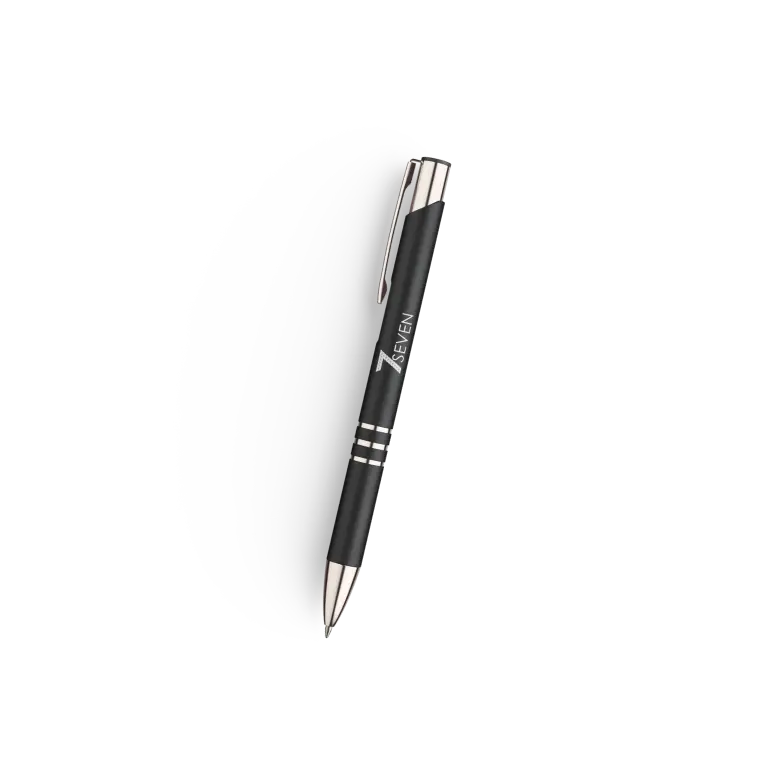
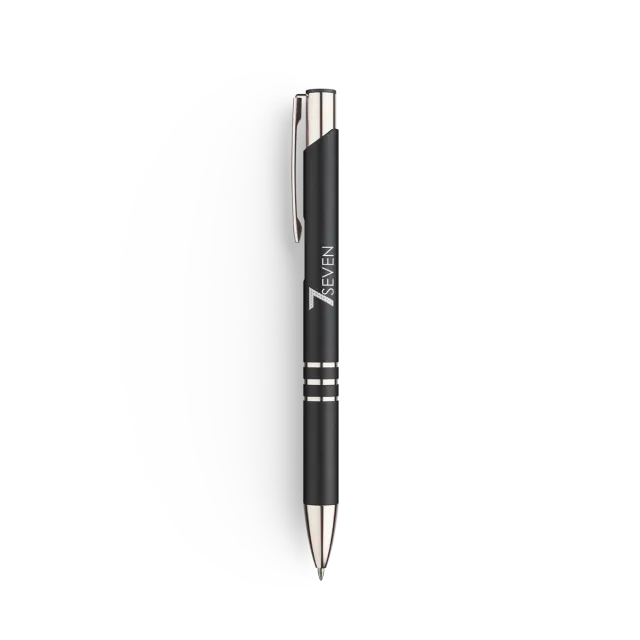
position pen upd

Changed region(s): [[0.4062, 0.125, 0.5938, 0.9062]]

diff --git a/style.css b/style.css
@@ -427,12 +427,13 @@
     content: "";
     position: absolute;
     background-image: url(/assets/pen.webp);
-    top: 0;
-    left: 0;
+    top: 61px;
+    left: -160px;
     height: 320px;
     width: 320px;
     background-position: center;
     background-size: contain;
+    rotate: 13deg;
   }
   .advantages__image img {
     width: 273px;
